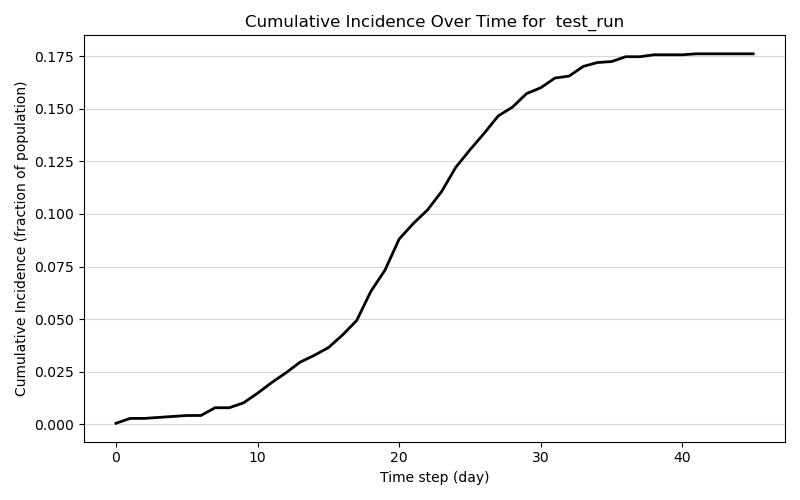
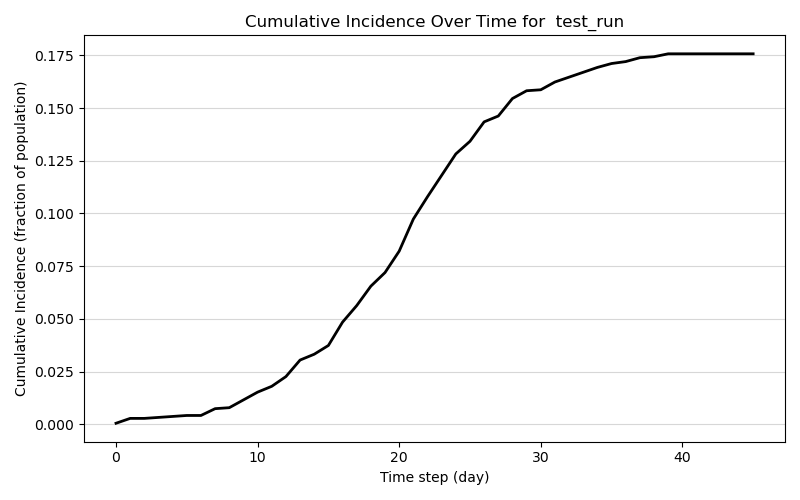
Profiled and optimized code, runs about 10x faster. Also added ability to export .graphml file to visualize using network visualization software

diff --git a/scripts/network_model.py b/scripts/network_model.py
@@ -2,6 +2,7 @@ import os
 import numpy as np
 import pandas as pd
 import igraph as ig
+import networkx as nx
 from typing import TypedDict, List
 import matplotlib.pyplot as plt
 from matplotlib.patches import Patch
@@ -125,9 +126,11 @@ class NetworkModel:
                 county = self.county)
 
         self.individual_lookup = build_individual_lookup(self.contacts_df)
-
         self.neighbor_map = self.build_neighbor_map()
-
+        self.existing_edge_set= set() # track existing edges
+        self.fast_neighbor_map = {} #preprocess dict of dicts to speed up later
+        for src, nbr_list in self.neighbor_map.items():
+            self.fast_neighbor_map[src] = {tgt: (weight, ct) for tgt, weight, ct in nbr_list}
 
     #Set a theoretical full with axis positions for visualization purposes
         self.full_node_list = sorted(set(self.edge_list['source']).union(set(self.edge_list['target'])))
@@ -141,8 +144,9 @@ class NetworkModel:
             [self.full_node_list.index(tgt) for tgt in self.edge_list['target']]
         ))
         g_full.add_edges(full_edges)
-        self.fixed_layout = g_full.layout('fr') #set a layout for the full graph
+        self.fixed_layout = g_full.layout('grid') #set a layout for the full graph
         self.layout_node_names = self.full_node_list
+        self.layout_name_to_ind = {name:i for i, name in enumerate(self.layout_node_names)}
 
 
 #State tracking: 0 = S, 1 = E, 2 = I, 3 = R
@@ -300,8 +304,16 @@ class NetworkModel:
         self.assign_node_attribute("age", ages, node_list, g)
         self.assign_node_attribute("sex", sexes, node_list, g)
 
-        return g
 
+        #track edges
+        self.existing_edge_set = set()
+        for e in g.es:
+            i = int(g.vs[e.source]["name"])
+            j = int(g.vs[e.target]["name"])
+            edge_tuple =tuple(sorted((i, j)))
+            self.existing_edge_set.add(edge_tuple)
+        return g
+    #@profile
     def add_to_graph(self, g: ig.Graph, indices):
         """
         Quickly add all neighbors of indices to igraph g without duplicates, ensuring all node names are ints, assigns demographic attributes to each new node when added
@@ -314,25 +326,21 @@ class NetworkModel:
         existing_names = set(self.ind_to_name(g, range(g.vcount())))
 
         # Gather current edges as tuples of int
-        existing_edge_set = set()
-        for e in g.es:
-            i, j = int(g.vs[e.source]["name"]), int(g.vs[e.target]["name"])
-            edge_tuple = tuple(sorted((i, j)))
-            existing_edge_set.add(edge_tuple)
-
         new_nodes = set()
         edge_set = set()
         edge_data = {}
 
         for ind in indices:
-            ind = int(ind)
-            for neighbor, weight, ct in self.neighbor_map.get(ind, []):
+            neighbors_dict = self.fast_neighbor_map.get(ind, {})
+            for neighbor, (weight, ct) in neighbors_dict.items():
                 neighbor = int(neighbor)
+                #only add a node if it isn't present
                 if neighbor not in existing_names:
                     new_nodes.add(neighbor)
+                #don't duplicate edges or add loops
                 if ind != neighbor:
                     edge_tuple = tuple(sorted((ind, neighbor)))
-                    if edge_tuple not in existing_edge_set and edge_tuple not in edge_set:
+                    if edge_tuple not in self.existing_edge_set and edge_tuple not in edge_set:
                         edge_set.add(edge_tuple)
                         edge_data[edge_tuple] = (weight, ct)
 
@@ -356,12 +364,12 @@ class NetworkModel:
             edges.append((name_to_vertex[int(i)], name_to_vertex[int(j)]))
             weights.append(w)
             types.append(t)
+            self.existing_edge_set.add((min(i,j),max(i,j))) #update existing edges
+            
         if edges:
             g.add_edges(edges)
             g.es[-len(edges):]["weight"] = weights
             g.es[-len(edges):]["contact_type"] = types
-
-
 
         return g
     
@@ -413,56 +421,64 @@ class NetworkModel:
 
         return self.rng.gamma(shape = self.params["gamma_alpha"], scale = mean_inf)
 
+    #@profile
+    def determine_new_exposures(self):
+        """
+    Uses the current epi_g, self.neighbor_map, and self.individual_lookup to determine who is newly exposed in a given step
+        """
+        infectious_nodes = np.where(self.state == 2)[0]
+
+        pairs_source = []
+        pairs_target = []
+        contact_weights = []
+        contact_types = []
+
+        for src in infectious_nodes:
+            for tgt in self.fast_neighbor_map.get(src, {}):
+                if self.state[tgt] == 0: #target must be susceptible
+                    weight, ctype = self.fast_neighbor_map[src][tgt]
+                    pairs_source.append(src)
+                    pairs_target.append(tgt)
+                    contact_weights.append(weight)
+                    contact_types.append(ctype)
+
+        if not pairs_source:
+            return np.array([], dtype = int)
+        
+        pairs_source = np.array(pairs_source)
+        pairs_target = np.array(pairs_target)
+        contact_weights = np.array(contact_weights)
+
+        #calculate transmission 
+        prob = self.params["base_transmission_prob"] * contact_weights
+
+        source_vax = self.is_vaccinated[pairs_source]
+        target_vax = self.is_vaccinated[pairs_target]
+        prob = prob*np.where(source_vax, self.params["relative_infectiousness_vax"], 1)
+        prob = prob * ((1- self.params["vax_efficacy"]) ** target_vax)
+
+        #Factor in individual heterogeneity 
+        ages_target = self.individual_lookup.loc[pairs_target, "age"].to_numpy()
+        under_five_mask = ages_target <= 5
+        prob[under_five_mask] *= self.params["susceptibility_multiplier_under_five"]
+        
+        #Do random draws
+        draws = self.rng.random(len(prob))
+        new_exposed = np.array(pairs_target[draws < prob], dtype = int)
+        return np.unique(new_exposed)
+
+    #@profile
     def step(self):
         """
         Takes data from a previous step's self.state, and updates, expanding the graph as appropriate
         """
 
-
         #Determine new exposures
-        newly_exposed = []
 
         current_nodes = self.ind_to_name(self.epi_g, range(self.epi_g.vcount()))
         infectious_nodes = current_nodes[self.state[current_nodes] == 2]
-
-        for infec_ind in infectious_nodes:
-            #note infectious indices correspond to names in the igraph
-            node_index = self.name_to_ind(self.epi_g, infec_ind)
-            neighbor_indices = self.epi_g.neighbors(node_index)
-            neighbors = self.ind_to_name(self.epi_g, neighbor_indices)
-
-            sus_neighbors = neighbors[self.state[neighbors] == 0]
-
-            if sus_neighbors.size:
-                #get edge weights
-                eids = [self.epi_g.get_eid(
-                    self.name_to_ind(self.epi_g, infec_ind),
-                    self.name_to_ind(self.epi_g, nbr))
-                    for nbr in sus_neighbors]
-
-                weights = np.array([self.epi_g.es[eid]["weight"] for eid in eids])
-                
-                #calculate transmission prob for each
-                prob = self.params["base_transmission_prob"]*weights
-                #adjust for vaccination of i, j
-                source_vax = self.is_vaccinated[infec_ind]
-                exposed_vax = self.is_vaccinated[sus_neighbors]
-                if source_vax:
-                    prob *= self.params["relative_infectiousness_vax"]
-                prob *= ((1- self.params["vax_efficacy"]) ** exposed_vax)
-
-                #EXAMPLE OF INCREASING INDIVIDUAL HETEROGENEITY
-                #Increasing susceptibility of those under five
-                #TODO change this to realistic 
-                ages_sus = np.array(self.epi_g.vs[self.name_to_ind(self.epi_g, sus_neighbors)]["age"])
-                is_under_five = ages_sus <= 5
-                prob[is_under_five] *= self.params["susceptibility_multiplier_under_five"]
-
-                draws = self.rng.random(sus_neighbors.shape)
-                new_exposed = sus_neighbors[draws < prob]
-                newly_exposed.extend(new_exposed.tolist())
-
-        newly_exposed = np.unique(newly_exposed)
+        newly_exposed = []
+        newly_exposed = self.determine_new_exposures()
 
         #Determine exposed to infectious
         exposed_nodes = current_nodes[self.state[current_nodes] == 1]
@@ -510,6 +526,7 @@ class NetworkModel:
         self.new_exposures.append(newly_exposed)
         self.new_infections.append(to_infectious)
 
+   # #@profile
     def simulate(self):
         t = 0
         while t < self.Tmax:
@@ -658,7 +675,7 @@ class NetworkModel:
 
 
 
-
+    #@profile
     def draw_network(self, t: int, ax=None, clear: bool =True, saveFile: bool = False):
 
         #Take a timestep t as an input, and return a plot of the graph
@@ -670,7 +687,7 @@ class NetworkModel:
         color_map.update({i: "green" for i in R})
         colors = [color_map[v["name"]] for v in g.vs]
 
-        indices = [self.layout_node_names.index(v["name"]) for v in g.vs]
+        indices = [self.layout_name_to_ind[v["name"]] for v in g.vs]
         layout = [self.fixed_layout[i] for i in indices]
         node_labels = g.vs["name"]
 
@@ -679,7 +696,7 @@ class NetworkModel:
 
 
         if ax is None:
-            fig, ax = plt.subplots(figsize = (8,8))
+            fig, ax = plt.subplots(figsize = (10,10))
             show_plot = True
         else:
             show_plot = False
@@ -749,8 +766,54 @@ class NetworkModel:
         print(f"Outbreak movie saved to {out_path}...")
 
         return
+
+    def make_graphi_file(self, t: int):
+        """ Visualize the network at a given timestep using graphi
+
+        Args:
+            t (int): a timestep of the network to visualize
+
+        Returns:
+            Saves a .graphml of the network to open on gephi
+        """
+        def igraph_to_networkx(g: ig.Graph) -> nx.Graph:
+
+            """
+            Takes an igraph graph object and converts it to a networkX graph to be visualized with graphi
+
+            Args:
+                g (ig.Graph): an igraph Graph
+
+            Returns:
+                nx.Graph: a networkX graph object
+            """
+          
+            G = nx.Graph()
+            #add attributes
+            for v in g.vs:
+                node_id = v["name"]
+                attrs = v.attributes().copy()
+                attrs.pop("name", None) #don't duplicate name
+                G.add_node(node_id, **attrs)
+
+            for e in g.es:
+                u = g.vs[e.source]["name"]
+                v = g.vs[e.target]["name"]
+                attrs = e.attributes().copy()
+                G.add_edge(u, v, **attrs)
+            return G
+        nx_g = igraph_to_networkx(self.epi_graphs[t])
+        self.nx_g = nx_g
+        if self.params["save_data_files"]:
+            nx.write_graphml(nx_g, os.path.join(self.results_folder, "network.graphml"))
+
+        return
+
+
        
 
+
+    
 
 #Test run on a really small population
 if __name__ == "__main__":
@@ -769,6 +832,8 @@ if __name__ == "__main__":
     # testModel.draw_network(final_timestep, saveFile = testModel.params["save_plots"])
     print("Displaying cumulative incidence...")
     testModel.cumulative_incidence_plot()
+
+
 
 
 

diff --git a/scripts/ModelDriver.py b/scripts/ModelDriver.py
@@ -37,7 +37,7 @@ runParameters: ModelParameters = {
     "cas_weight": .1,
 
 #Simulation settings
-    "run_name": "test_run",
+    "run_name": "driver_run",
     "try_reload_edge_list": False, #Must be true to render changes in contact structure
     "simulation_duration": 45,
     "dt": 1,
